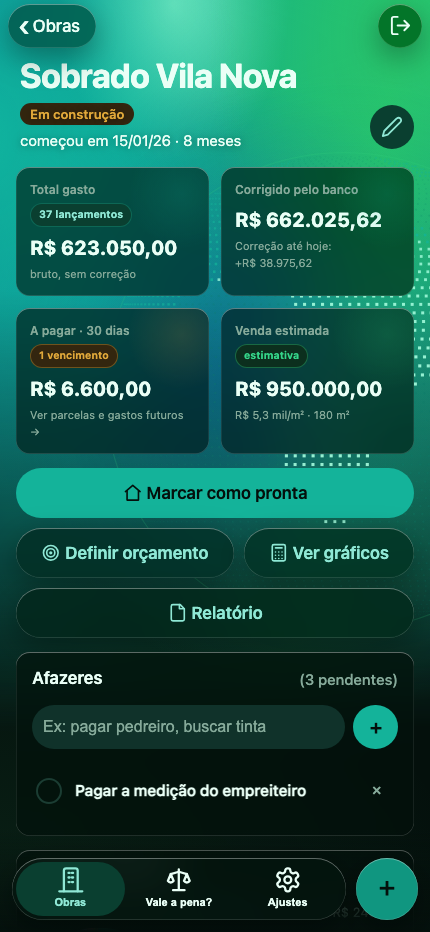
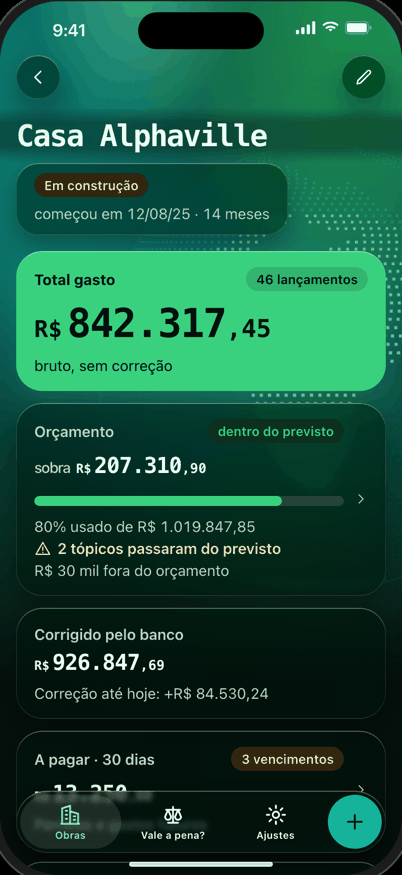
docs: capturas do README na identidade nova do app de iPhone
As três capturas do topo eram do site, de setembro. Agora são da identidade nova do app nativo, aprovada no mockup da etapa 4 em 28/10: a obra em blocos com o total em destaque, os Gráficos com o anel por tópico e o "Vale a pena?" com a TIR. Saem dos prints do mockup, reduzidos para 1x (402 px) e com paleta de 256 cores, cerca de 70 KB cada. A captura da lista de obras sai; a do simulador entra no lugar dela.

diff --git a/README.md b/README.md
@@ -19,9 +19,9 @@ O site está em produção; o app de iPhone está sendo refeito em SwiftUI nativ
 
 <table>
   <tr>
-    <td><img src="docs/img/inicio.png" width="260" alt="Lista de obras com total gasto por obra e comparativo entre elas"></td>
-    <td><img src="docs/img/obra.png" width="260" alt="Tela da obra com total gasto, valor corrigido pelo banco, contas a pagar e venda estimada"></td>
-    <td><img src="docs/img/graficos.png" width="260" alt="Gráficos de evolução da obra e de gasto por mês"></td>
+    <td><img src="docs/img/obra.png" width="260" alt="Obra no app de iPhone: total gasto, orçamento, corrigido pelo banco e A pagar"></td>
+    <td><img src="docs/img/graficos.png" width="260" alt="Gráficos da obra: anel de gastos por tópico com o valor de cada um"></td>
+    <td><img src="docs/img/vale-a-pena.png" width="260" alt="Simulador Vale a pena?: TIR mensal da venda comparada ao banco"></td>
   </tr>
 </table>
 
